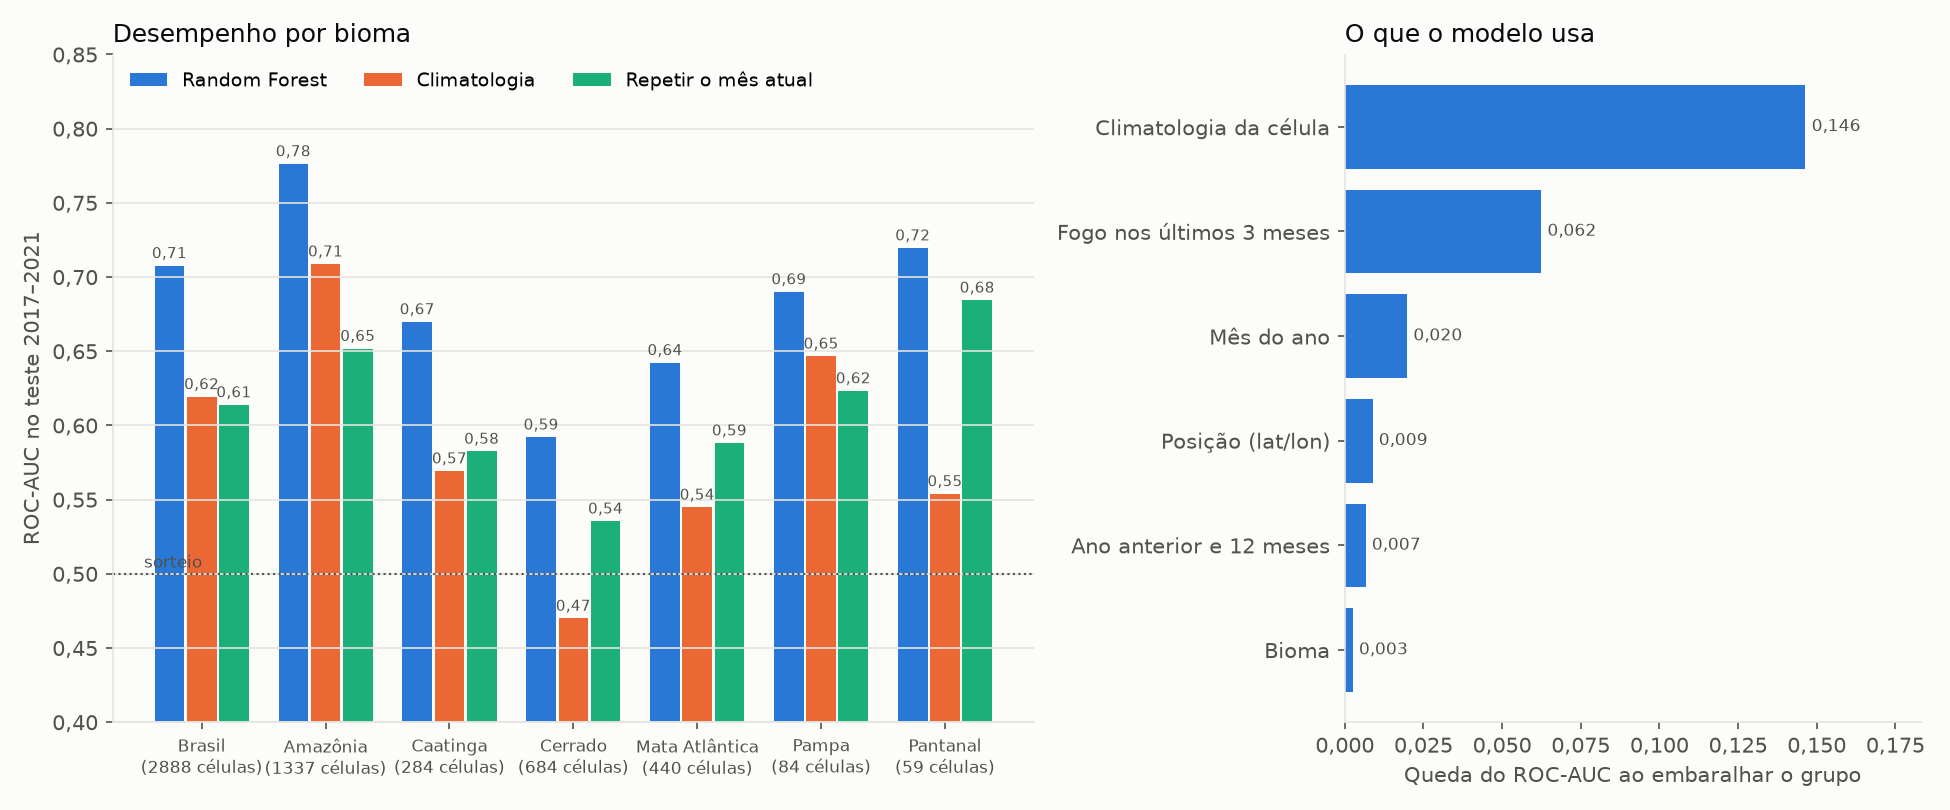
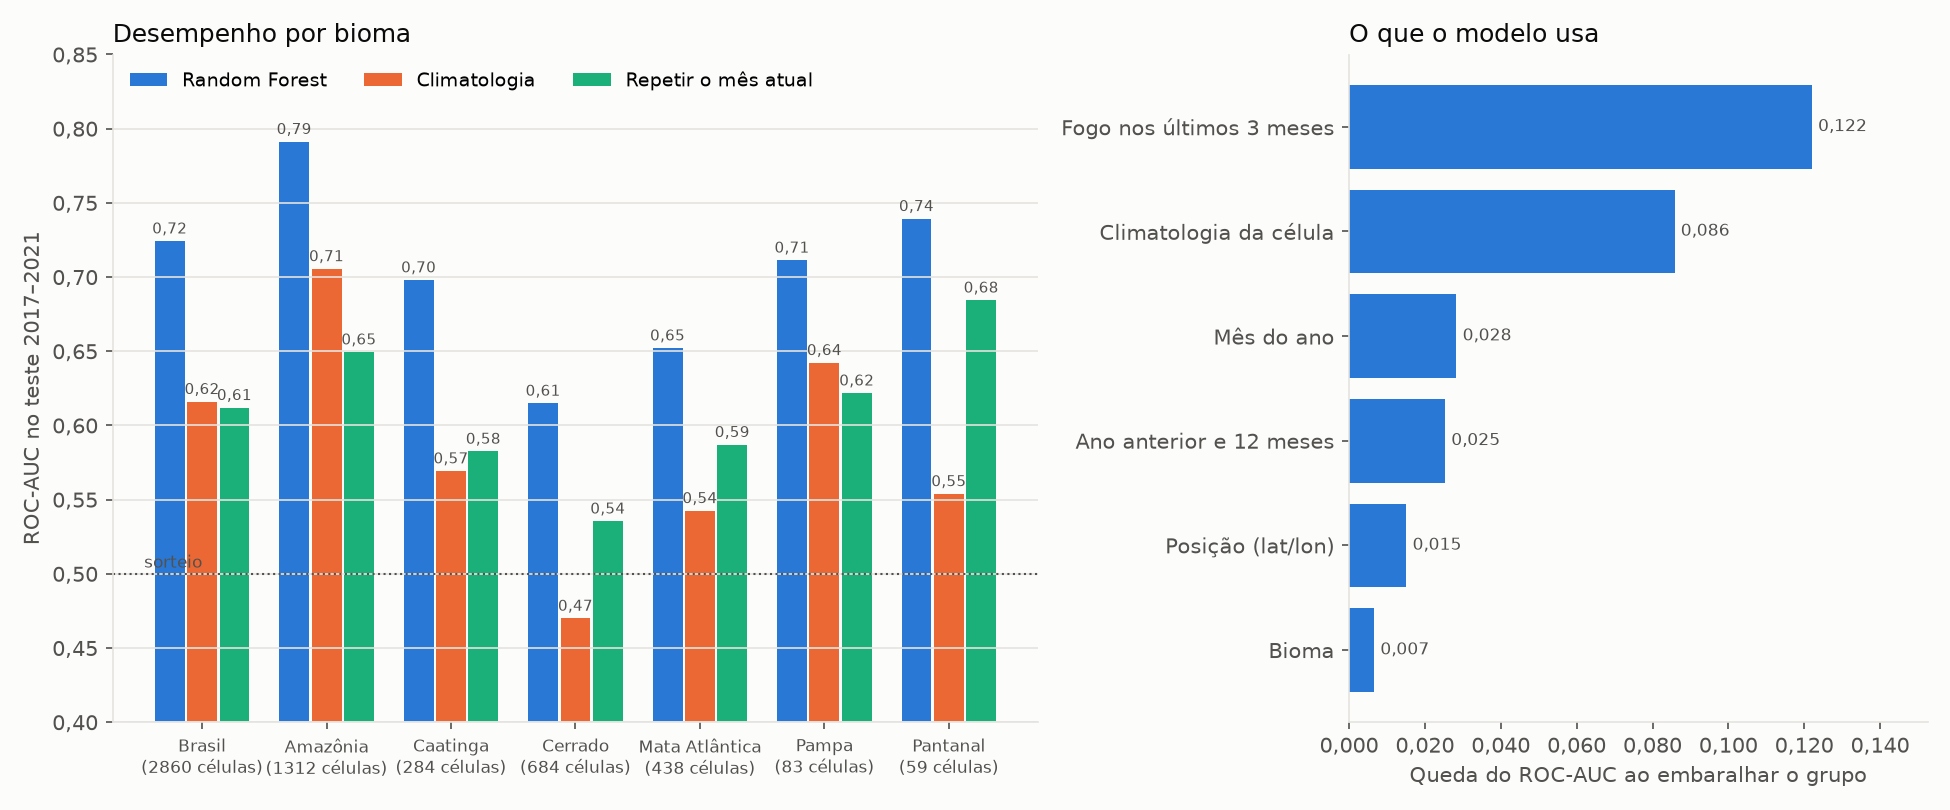
fix: mapa do mês crítico sem corte no eixo e saídas regeneradas
Salva o mapa com bbox_inches="tight" para não cortar os números do eixo
inferior e regenera o JSON e os dois gráficos após as quatro correções da
revisão (ROC-AUC temporal 0,724; mapa de 10/2020 com 0,750).

diff --git a/analises/risco_mes_critico.py b/analises/risco_mes_critico.py
@@ -117,7 +117,7 @@ def mapa(test: pd.DataFrame, mes: pd.Period, destino: Path, auc_teste: float) ->
                  f"ROC-AUC deste mês {_br(m['roc_auc'])} · média do teste 2017–2021 {_br(auc_teste)} "
                  "· mês escolhido pelo maior ΣFRP no mês anterior", color=TEXTO, x=0.01, ha="left", fontsize=12)
     fig.tight_layout()
-    fig.savefig(destino, dpi=150, facecolor=SUPERFICIE)
+    fig.savefig(destino, dpi=150, facecolor=SUPERFICIE, bbox_inches="tight", pad_inches=0.2)
     plt.close(fig)
     return {"mes": str(mes), "criterio": "mês-alvo de pico (ago–out) com maior ΣFRP no mês anterior",
             "celulas": int(len(sel)), "criticas": int(y_mes.sum()), **m}
